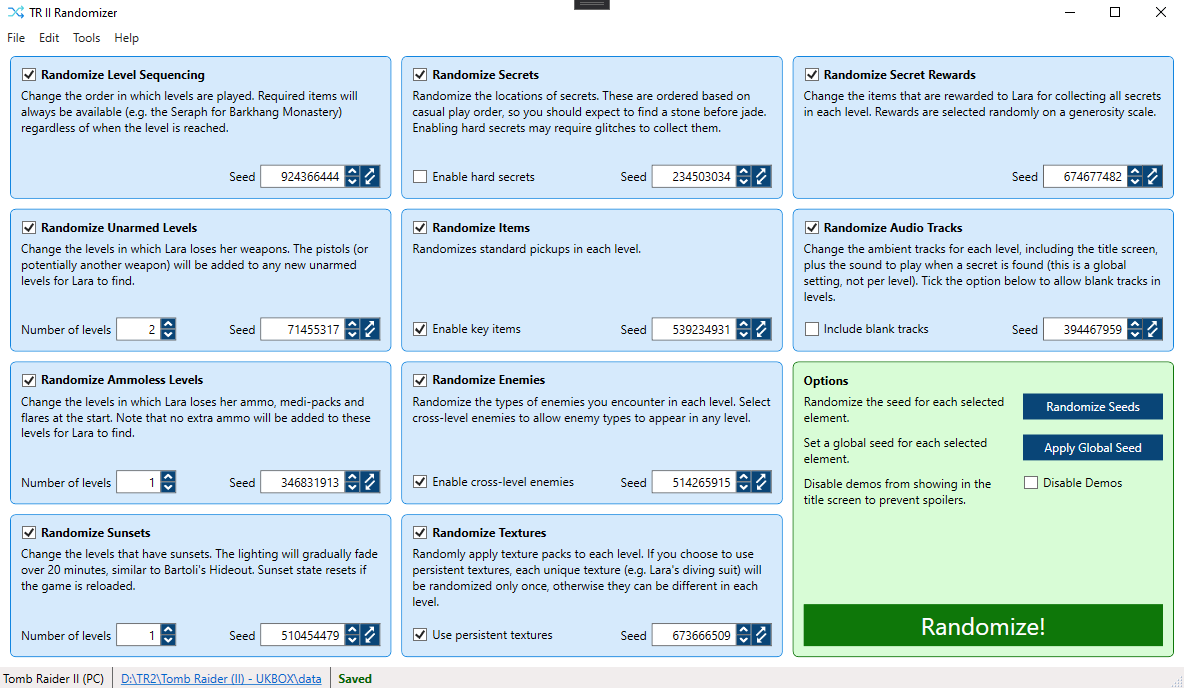
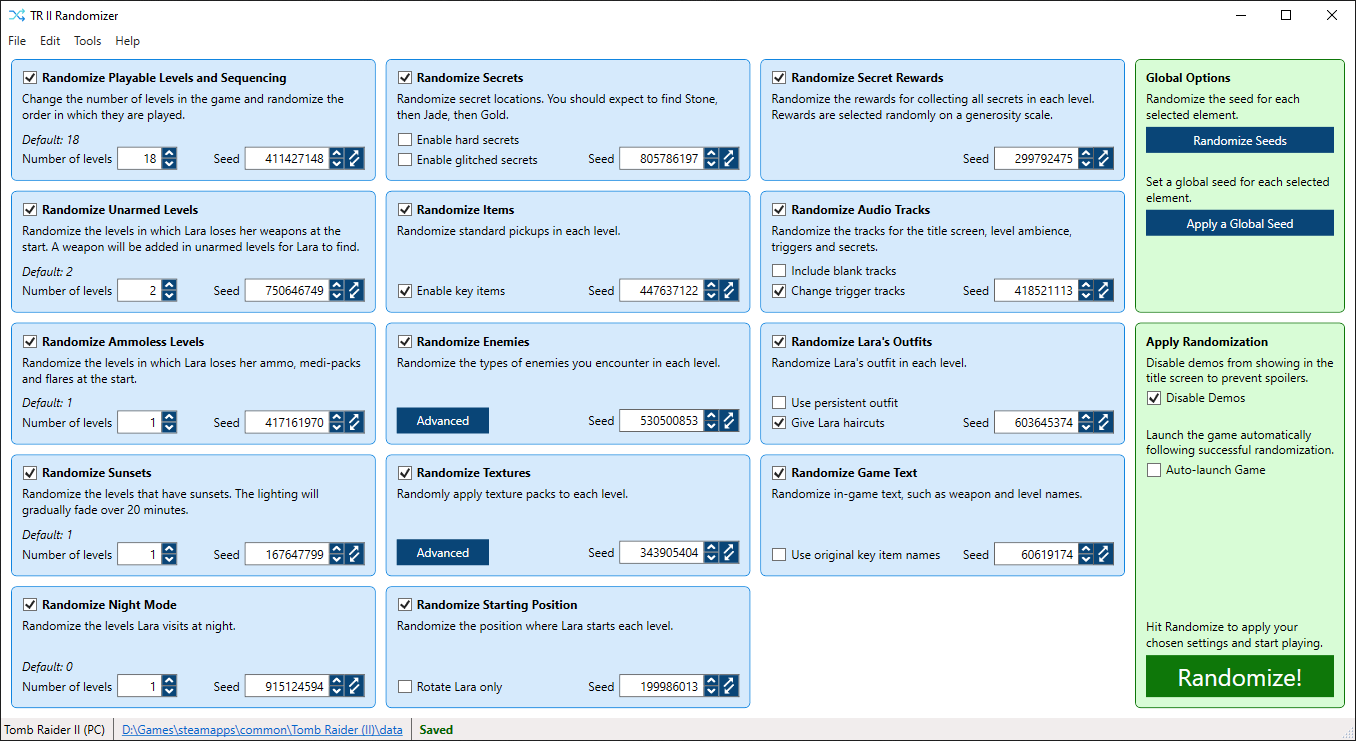
V1.3.2 Readme
- Updated UI screenshot and download link for V1.3.2
- Updated list of Types

diff --git a/README.md b/README.md
@@ -26,15 +26,19 @@ In addition to Newtonsoft.JSON, the following dependencies external to NuGet are
 * Items - Randomizes pickups, including key items!
 * Enemies - Randomizes the types of enemies you encounter. The enemy types encountered in elevels can also be randomized (cross-level enemies).
 * Textures - Randomly applies textures to a level. Persistent textures can also be set to enable consistency of textures between groups of levels.
-* Level sequencing - Randomizes level order.
+* Level count and sequencing - Randomizes the number of levels in the game and their order.
 * Secrets Rewards - Randomizes what you get from the collect all secrets rewards.
 * Unarmed Levels - Randomizes what levels lara's guns get removed.
-* Audio Tracks - Randomizes what audio tracks are played.
-* Ammo Loss - Randomizes what levels lara's ammo and items get removed.
+* Audio Tracks - Randomizes title screen, level ambience, trigger and secret soundtracks.
+* Ammo Loss - Randomizes what levels Lara's ammo and items get removed.
 * Sunsets - Randomizes what levels have bartoli sunset effect.
+* Outfits - Randomizes the outfit Lara wears in each level and randomly cuts Lara's hair.
+* Text - Randomizes in-game text, such as weapon and level names.
+* Night Mode - Darkens a chosen number of levels to give a night-time effect.
+* Starting Position - Choose to have Lara start levels in different positions and facing a different direction.
 
 # Download
-https://github.com/DanzaG/TR2-Rando/releases/download/V1.3.1/V1.3.1.zip
+https://github.com/DanzaG/TR2-Rando/releases/download/V1.3.2/V1.3.2.zip
 
 # Installation
 https://www.youtube.com/watch?v=MpNBfZgE0Fc
